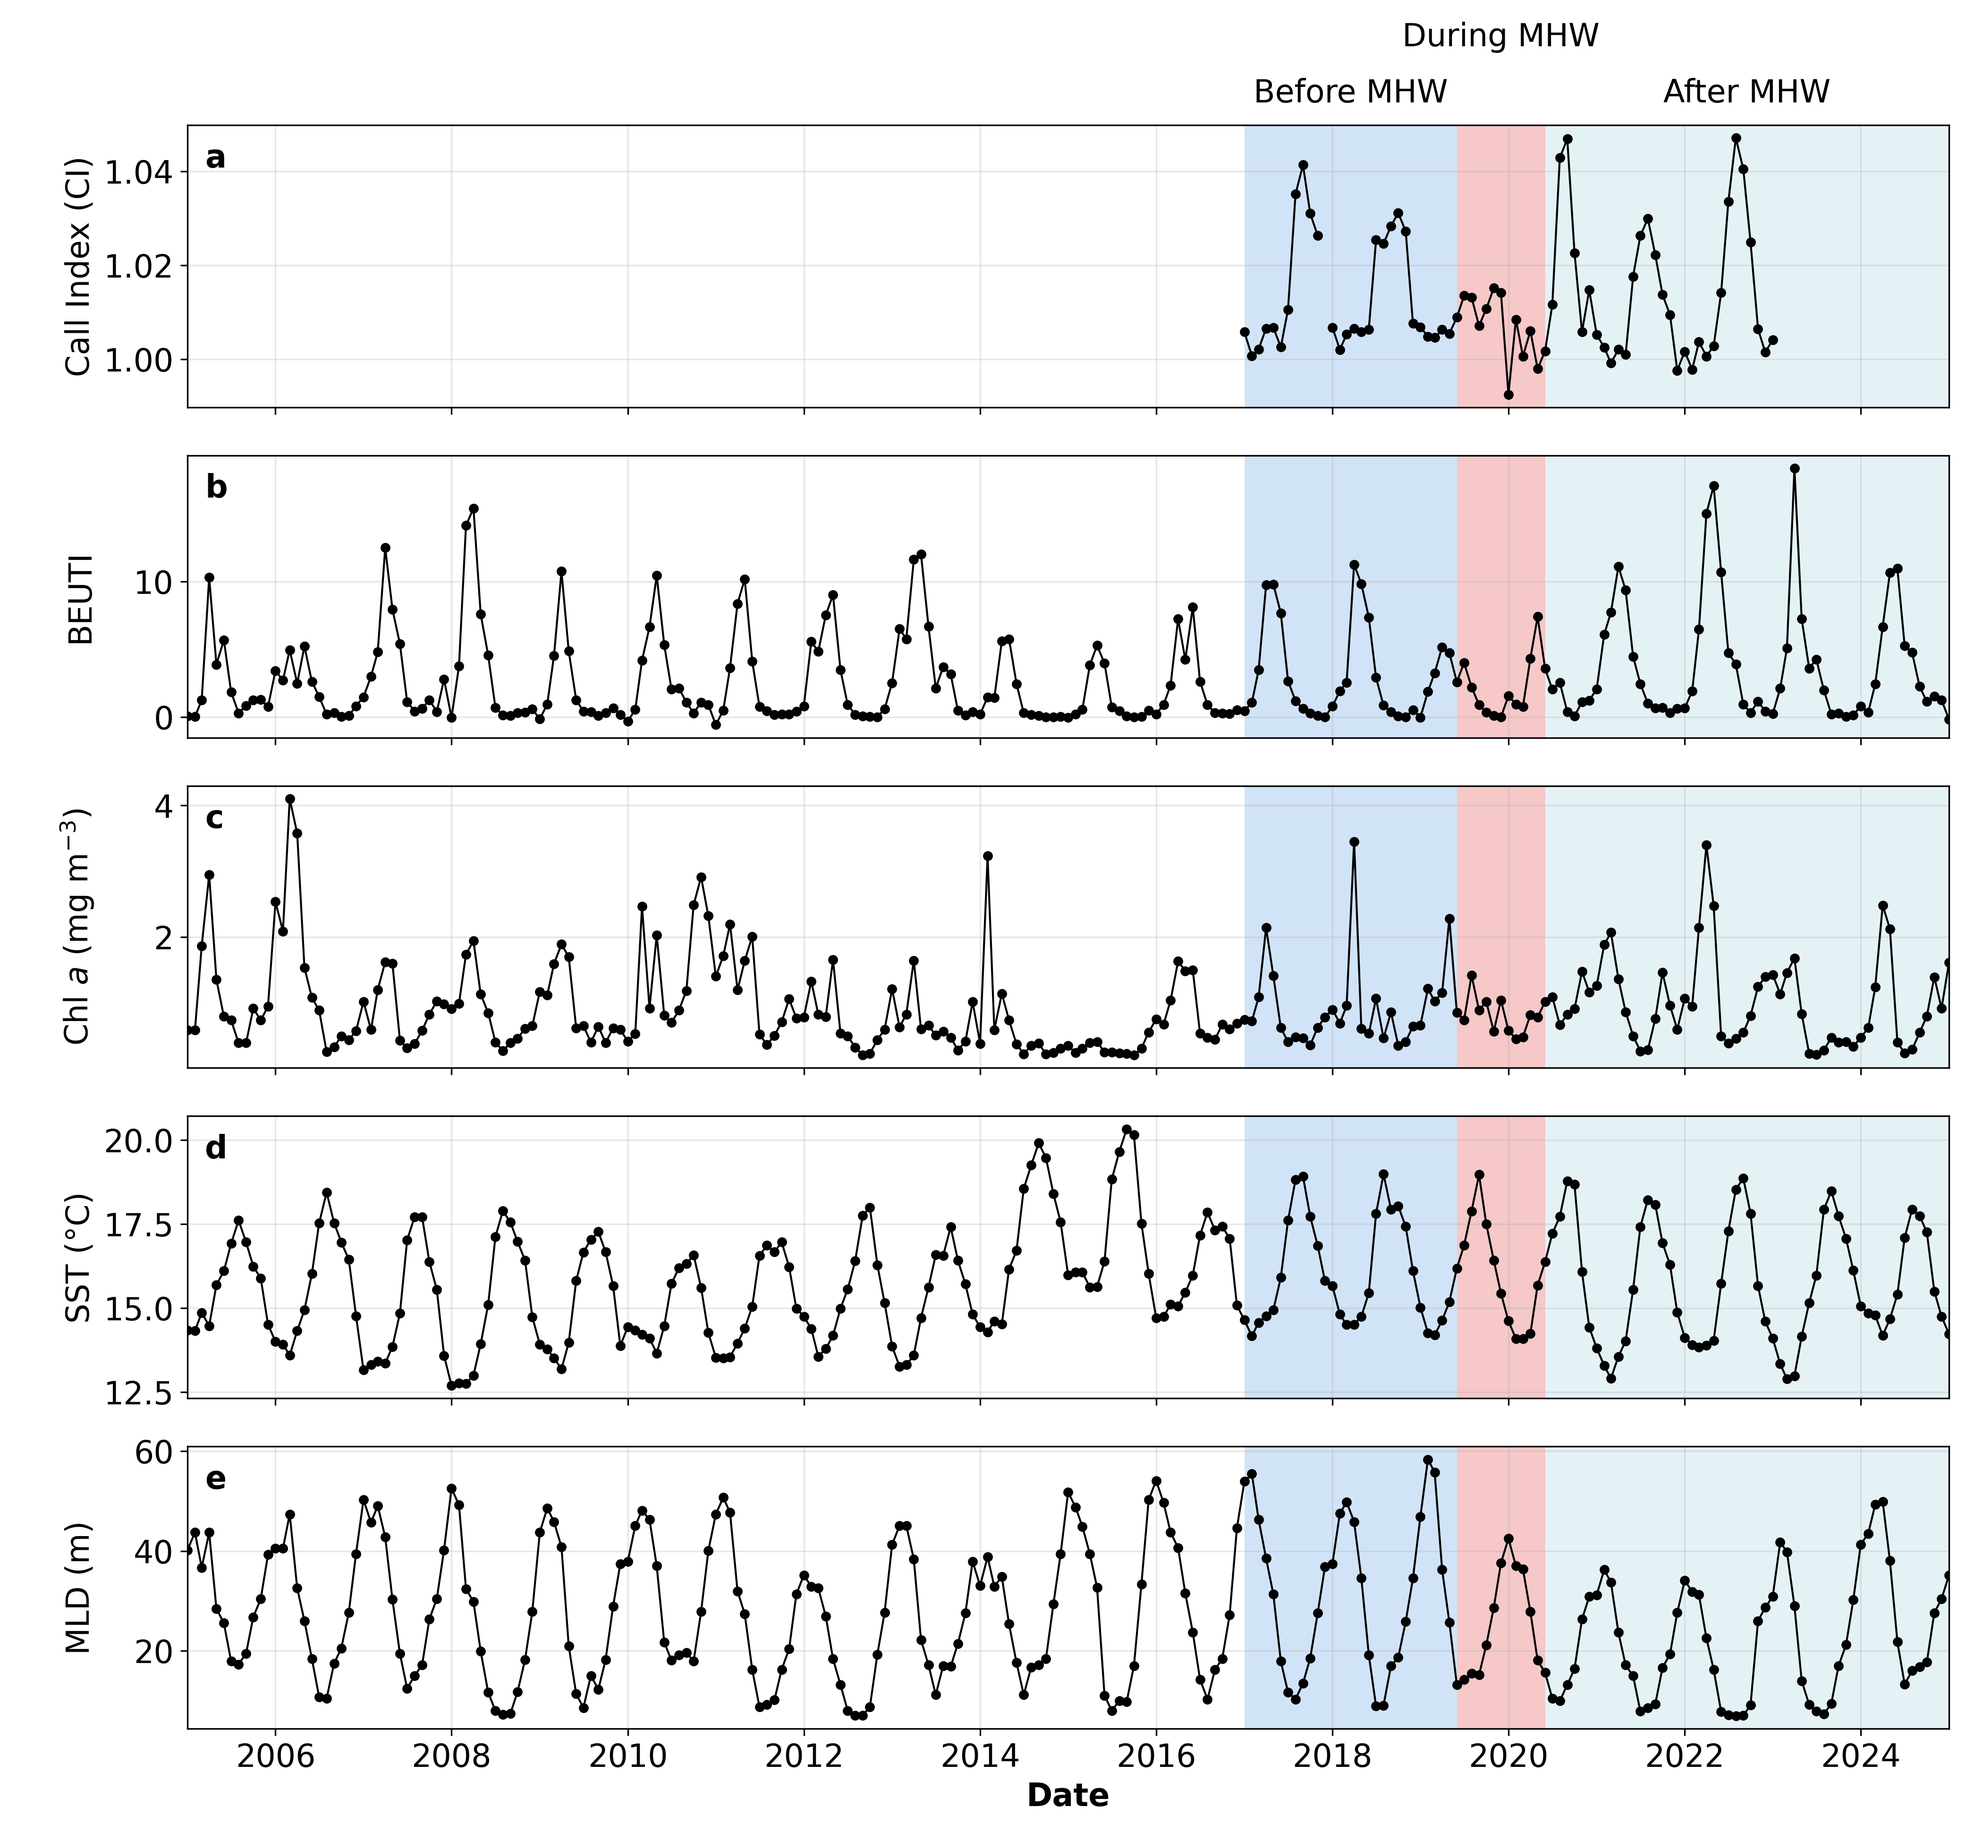
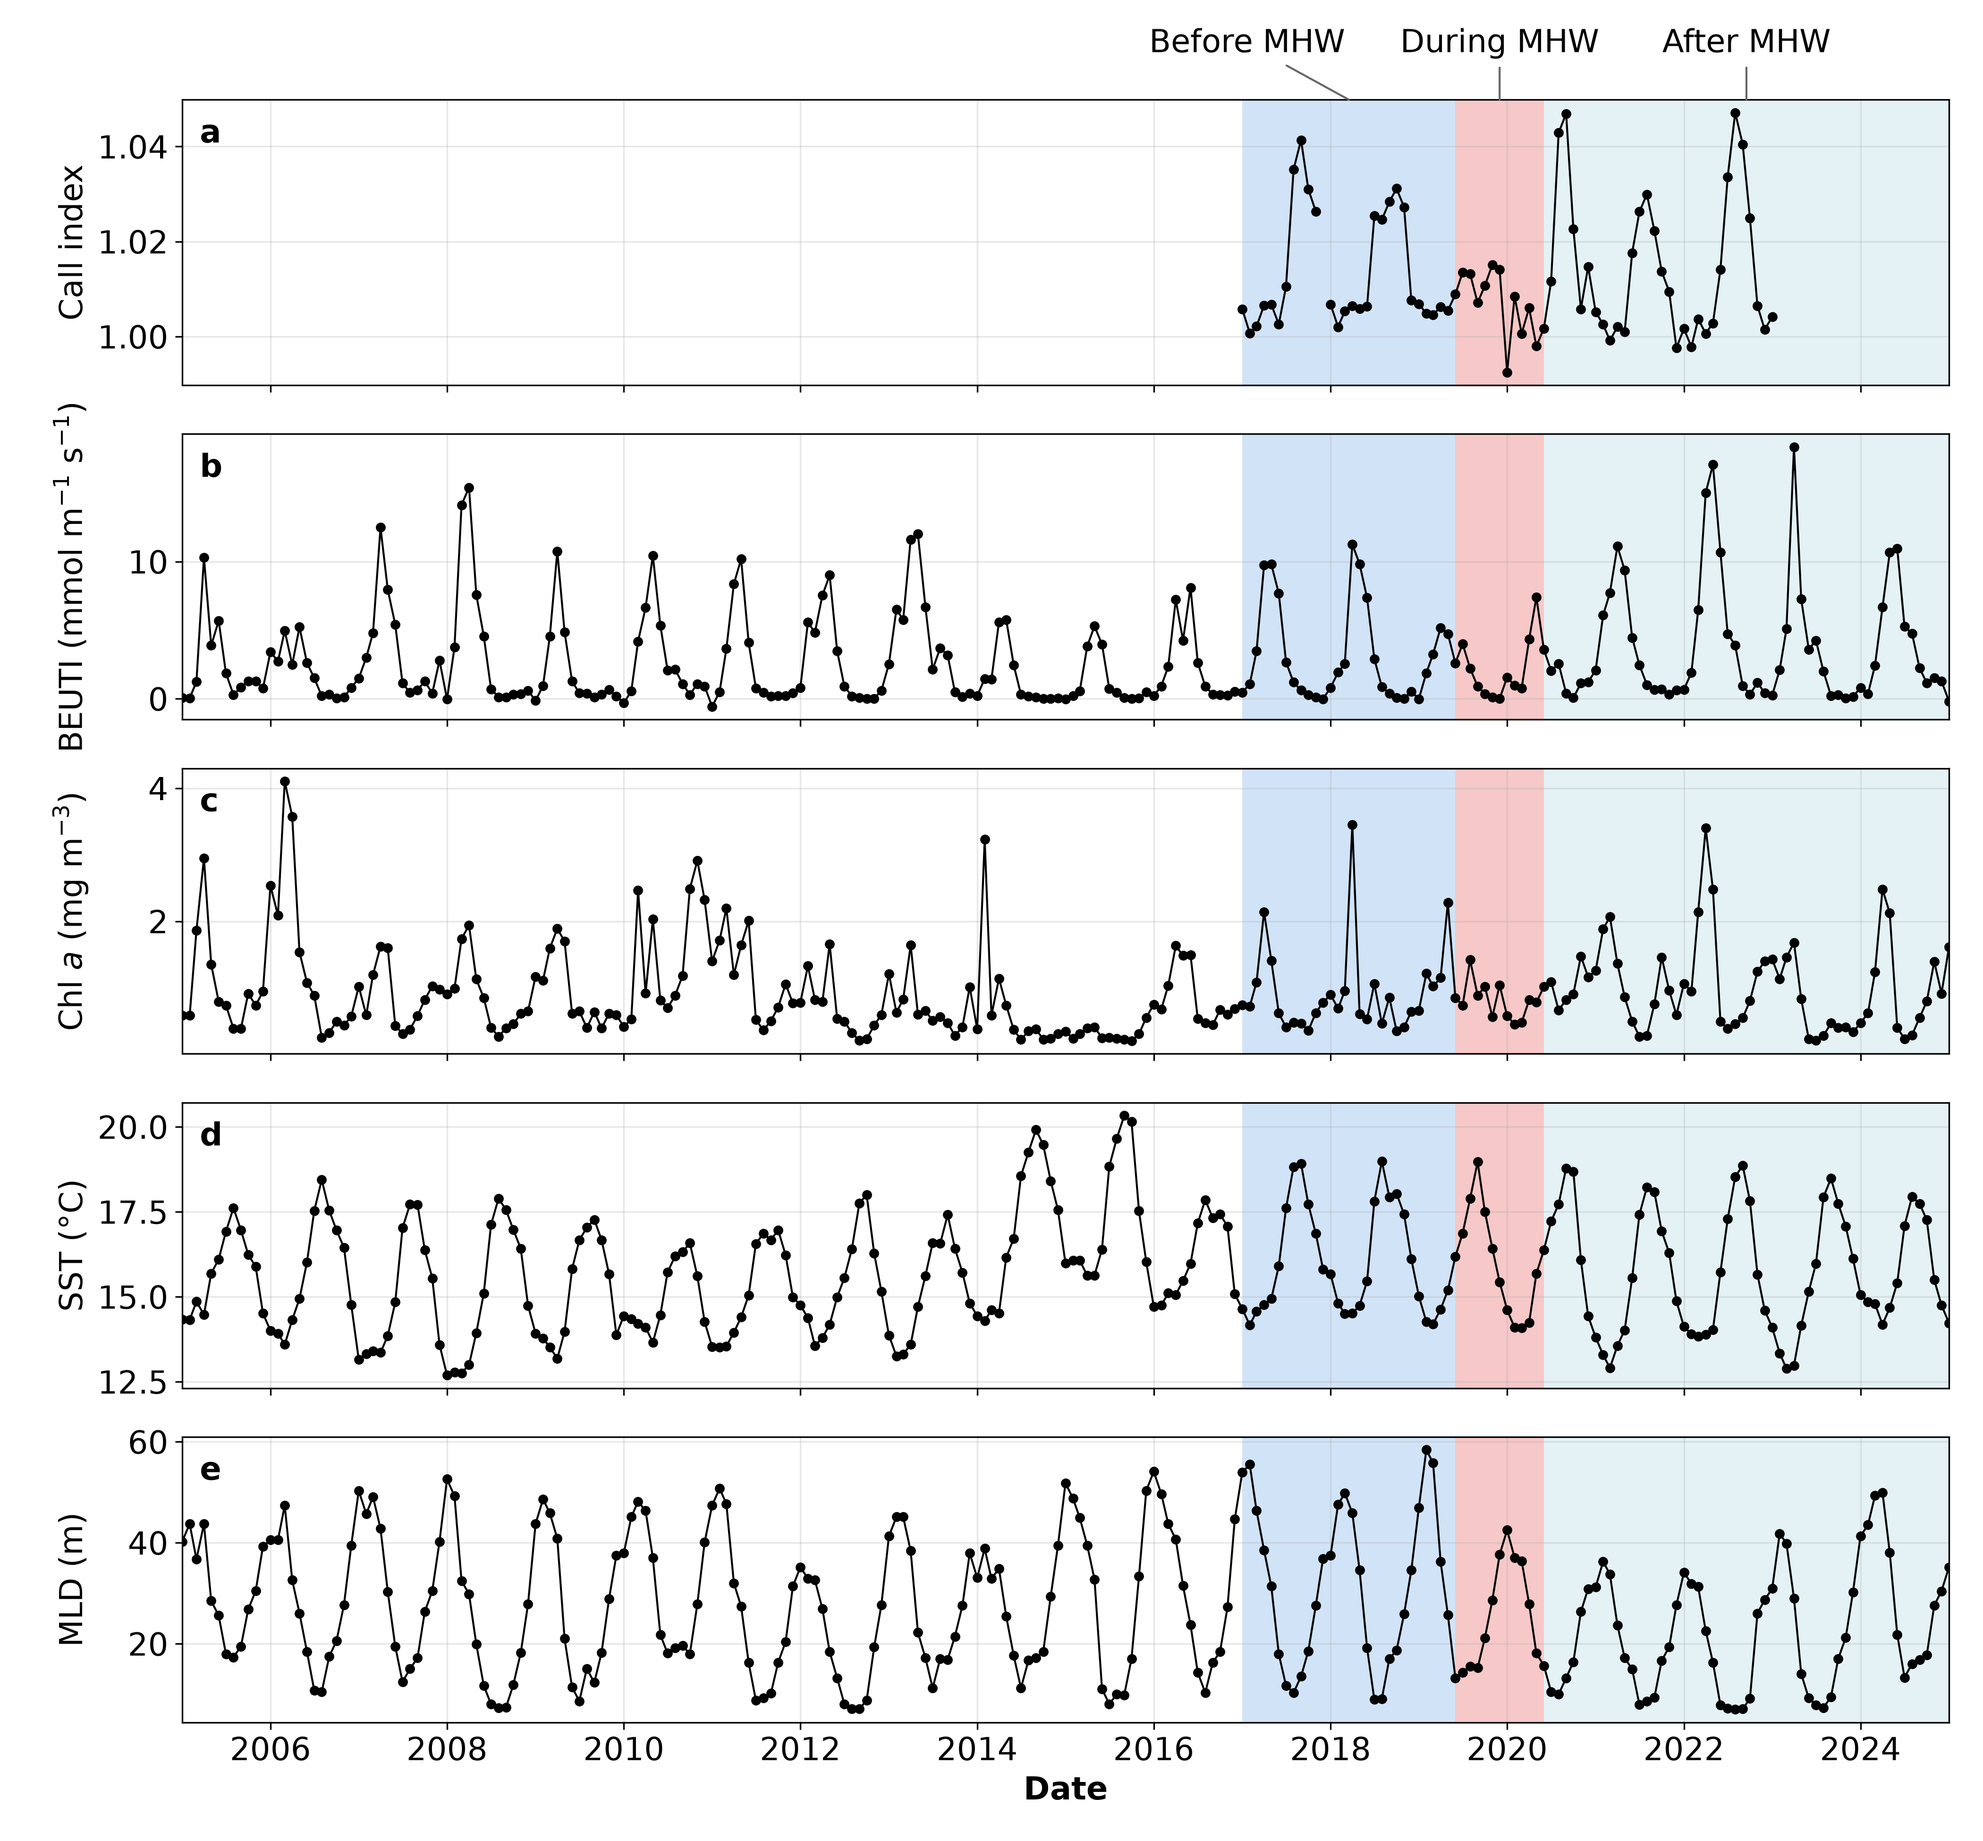
Update fig labels: call index, BEUTI units, period labels, remove 1:1 line

diff --git a/python/fig2_timeseries_2005_2025.py b/python/fig2_timeseries_2005_2025.py
@@ -1,5 +1,5 @@
 # fig2_timeseries_2005_2025.py
-# Last updated: Sept 29, 2026
+# Last updated: Nov 13, 2026
 # Fig 2: monthly CI (2017-2023) and raw BEUTI, chl a, SST, MLD (2005-2025), shaded by MHW period.
 
 import pandas as pd
@@ -18,8 +18,8 @@ spans = [("Before MHW", "2017-01-01", "2019-06-01", "#4A90E2", 0.25),
          ("During MHW", "2019-06-01", "2020-06-01", "#E24A4A", 0.30),
          ("After MHW", "2020-06-01", end, "#A8D5E2", 0.30)]
 
-panels = [(dat, "ci", "Call Index (CI)"),
-          (env, "beuti", "BEUTI"),
+panels = [(dat, "ci", "Call index"),
+          (env, "beuti", "BEUTI (mmol m$^{-1}$ s$^{-1}$)"),
           (env, "chla", "Chl $a$ (mg m$^{-3}$)"),
           (env, "sst", "SST (°C)"),
           (env, "mld", "MLD (m)")]
@@ -35,10 +35,30 @@ for ax, (d, v, lab), letter in zip(axes, panels, "abcde"):
     ax.grid(alpha=0.3)
     ax.set_xlim(start, end)
 
-for name, a, b, col, al in spans:
-    mid = pd.Timestamp(a) + (pd.Timestamp(b) - pd.Timestamp(a)) / 2
-    y = 1.28 if name == "During MHW" else 1.08
-    axes[0].text(mid, y, name, transform=axes[0].get_xaxis_transform(), ha="center")
+# period labels on one line, with leader lines to each band
+trans = axes[0].get_xaxis_transform()
+mids = {name: mdates.date2num(pd.Timestamp(a) + (pd.Timestamp(b) - pd.Timestamp(a)) / 2)
+        for name, a, b, col, al in spans}
+fig.canvas.draw()
+inv = axes[0].transData.inverted()
+
+def text_width(s):
+    t = axes[0].text(0, 0, s)
+    bb = t.get_window_extent(fig.canvas.get_renderer())
+    t.remove()
+    return inv.transform((bb.x1, 0))[0] - inv.transform((bb.x0, 0))[0]
+
+w = {name: text_width(name) for name in mids}
+gap = 120
+dm = mids["During MHW"]
+pos = {"Before MHW": min(mids["Before MHW"], dm - w["During MHW"] / 2 - gap - w["Before MHW"] / 2),
+       "During MHW": dm,
+       "After MHW": max(mids["After MHW"], dm + w["During MHW"] / 2 + gap + w["After MHW"] / 2)}
+
+for name in mids:
+    axes[0].annotate(name, xy=(mids[name], 1.0), xycoords=trans,
+                     xytext=(pos[name], 1.14), textcoords=trans, ha="center", va="bottom",
+                     arrowprops=dict(arrowstyle="-", color="0.4", lw=1, shrinkA=2, shrinkB=0))
 
 axes[-1].xaxis.set_major_locator(mdates.YearLocator(2))
 axes[-1].xaxis.set_major_formatter(mdates.DateFormatter("%Y"))

diff --git a/python/fig3_timeseries_2017_2023.py b/python/fig3_timeseries_2017_2023.py
@@ -1,5 +1,5 @@
 # fig3_timeseries_2017_2023.py
-# Last updated: Sept 29, 2026
+# Last updated: Nov 13, 2026
 # Fig 3: monthly CI and raw BEUTI, chl a, SST, MLD for the study period, shaded by MHW period.
 
 import pandas as pd
@@ -16,8 +16,8 @@ spans = [("Before MHW", "2017-01-01", "2019-06-01", "#4A90E2", 0.25),
          ("During MHW", "2019-06-01", "2020-06-01", "#E24A4A", 0.30),
          ("After MHW", "2020-06-01", "2023-02-01", "#A8D5E2", 0.30)]
 
-panels = [("ci", "Call Index (CI)"),
-          ("beuti", "BEUTI"),
+panels = [("ci", "Call index"),
+          ("beuti", "BEUTI (mmol m$^{-1}$ s$^{-1}$)"),
           ("chla", "Chl $a$ (mg m$^{-3}$)"),
           ("sst", "SST (°C)"),
           ("mld", "MLD (m)")]
@@ -32,6 +32,8 @@ for ax, (v, lab), letter in zip(axes, panels, "abcde"):
     ax.text(0.01, 0.85, letter, transform=ax.transAxes, fontweight="bold")
     ax.grid(alpha=0.3)
     ax.set_xlim(start, end + pd.Timedelta(days=15))
+    if v == "mld":
+        ax.set_ylim(top=72)
 
 for name, a, b, col, al in spans:
     mid = pd.Timestamp(a) + (min(pd.Timestamp(b), end) - pd.Timestamp(a)) / 2

diff --git a/python/fig6_predicted_vs_observed.py b/python/fig6_predicted_vs_observed.py
@@ -1,5 +1,5 @@
 # fig6_predicted_vs_observed.py
-# Last updated: Sept 29, 2026
+# Last updated: Nov 13, 2026
 # Fig 6: predicted vs observed CI anomaly for Models 1-3 (n = 69).
 
 import pandas as pd
@@ -21,15 +21,14 @@ for ax, m in zip(axes, ["m1", "m2", "m3"]):
     for p in periods:
         d = pred[pred.mhw_period == p]
         ax.scatter(d["pred_" + m], d.ci_anom, color=cols[p], edgecolor="black", lw=0.5, s=70, alpha=0.8, label=p)
-    ax.plot(lim, lim, color="red", lw=2)
     ax.set_xlim(lim)
     ax.set_ylim(lim)
     ax.set_aspect("equal")
     ax.set_title(f"{titles[m]}\n(Adj. $R^2$ = {r2[m]:.3f})", fontweight="bold")
-    ax.set_xlabel("Predicted CI anomaly")
+    ax.set_xlabel("Predicted call index anomaly")
     ax.grid(ls="--", alpha=0.3)
 
-axes[0].set_ylabel("Observed CI anomaly")
+axes[0].set_ylabel("Observed call index anomaly")
 h, l = axes[0].get_legend_handles_labels()
 fig.legend(h, l, loc="upper center", bbox_to_anchor=(0.5, 0.02), ncol=3, frameon=True)
 plt.tight_layout()
